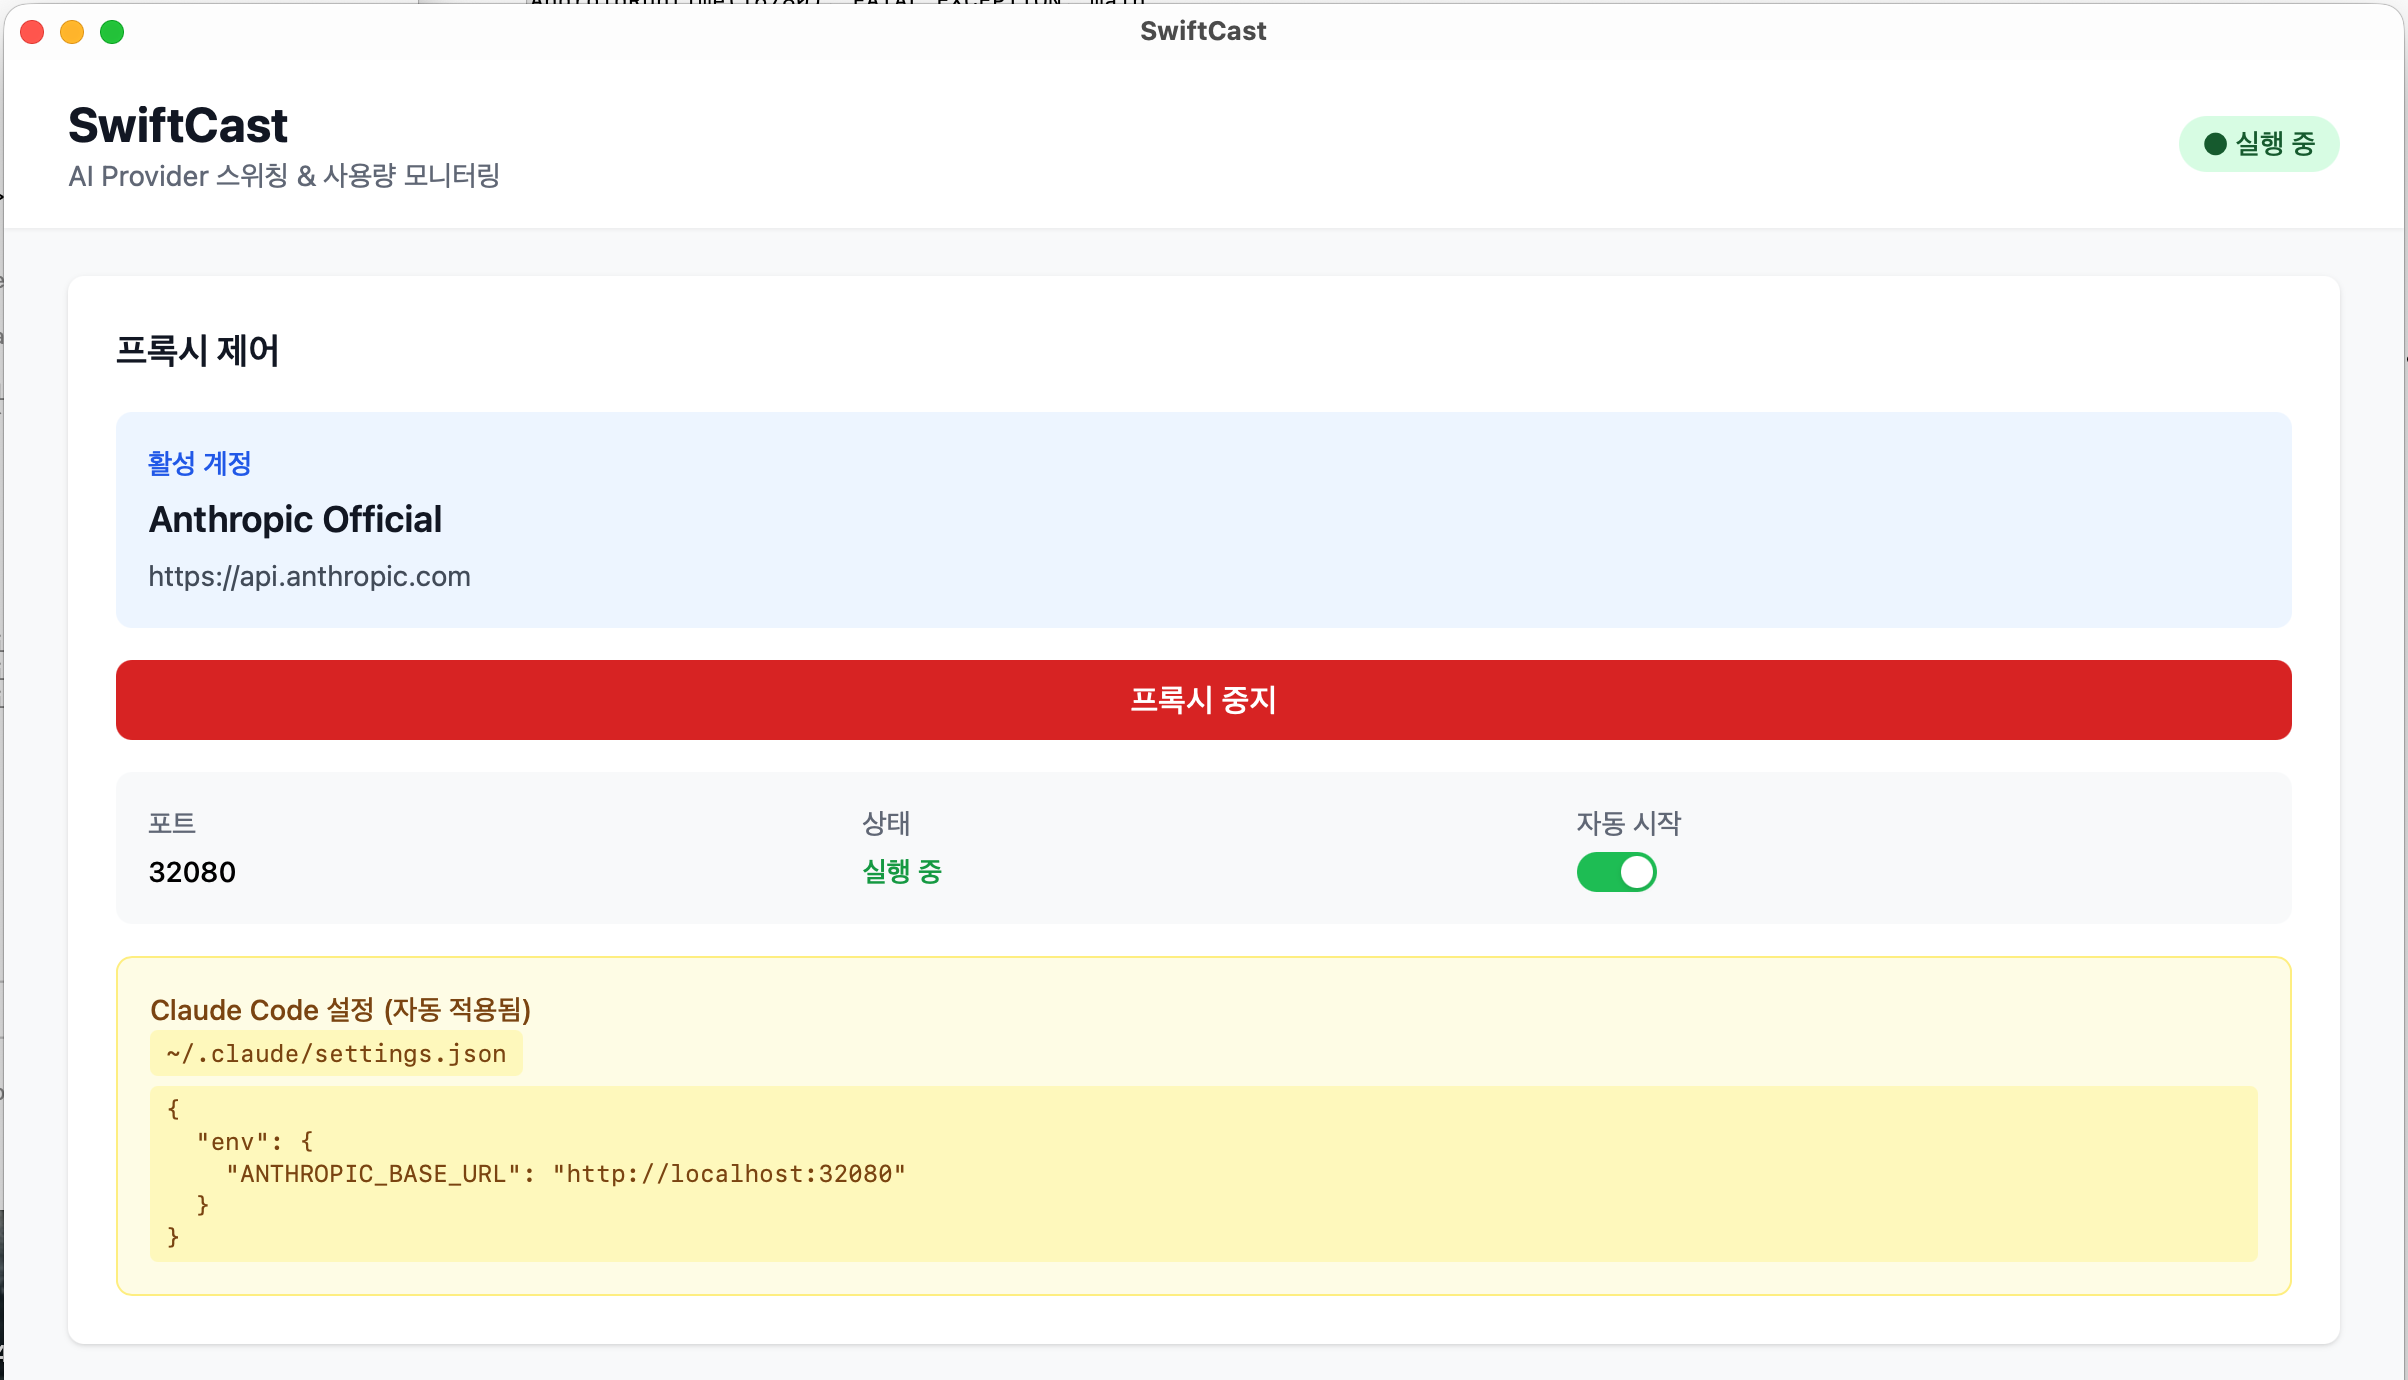
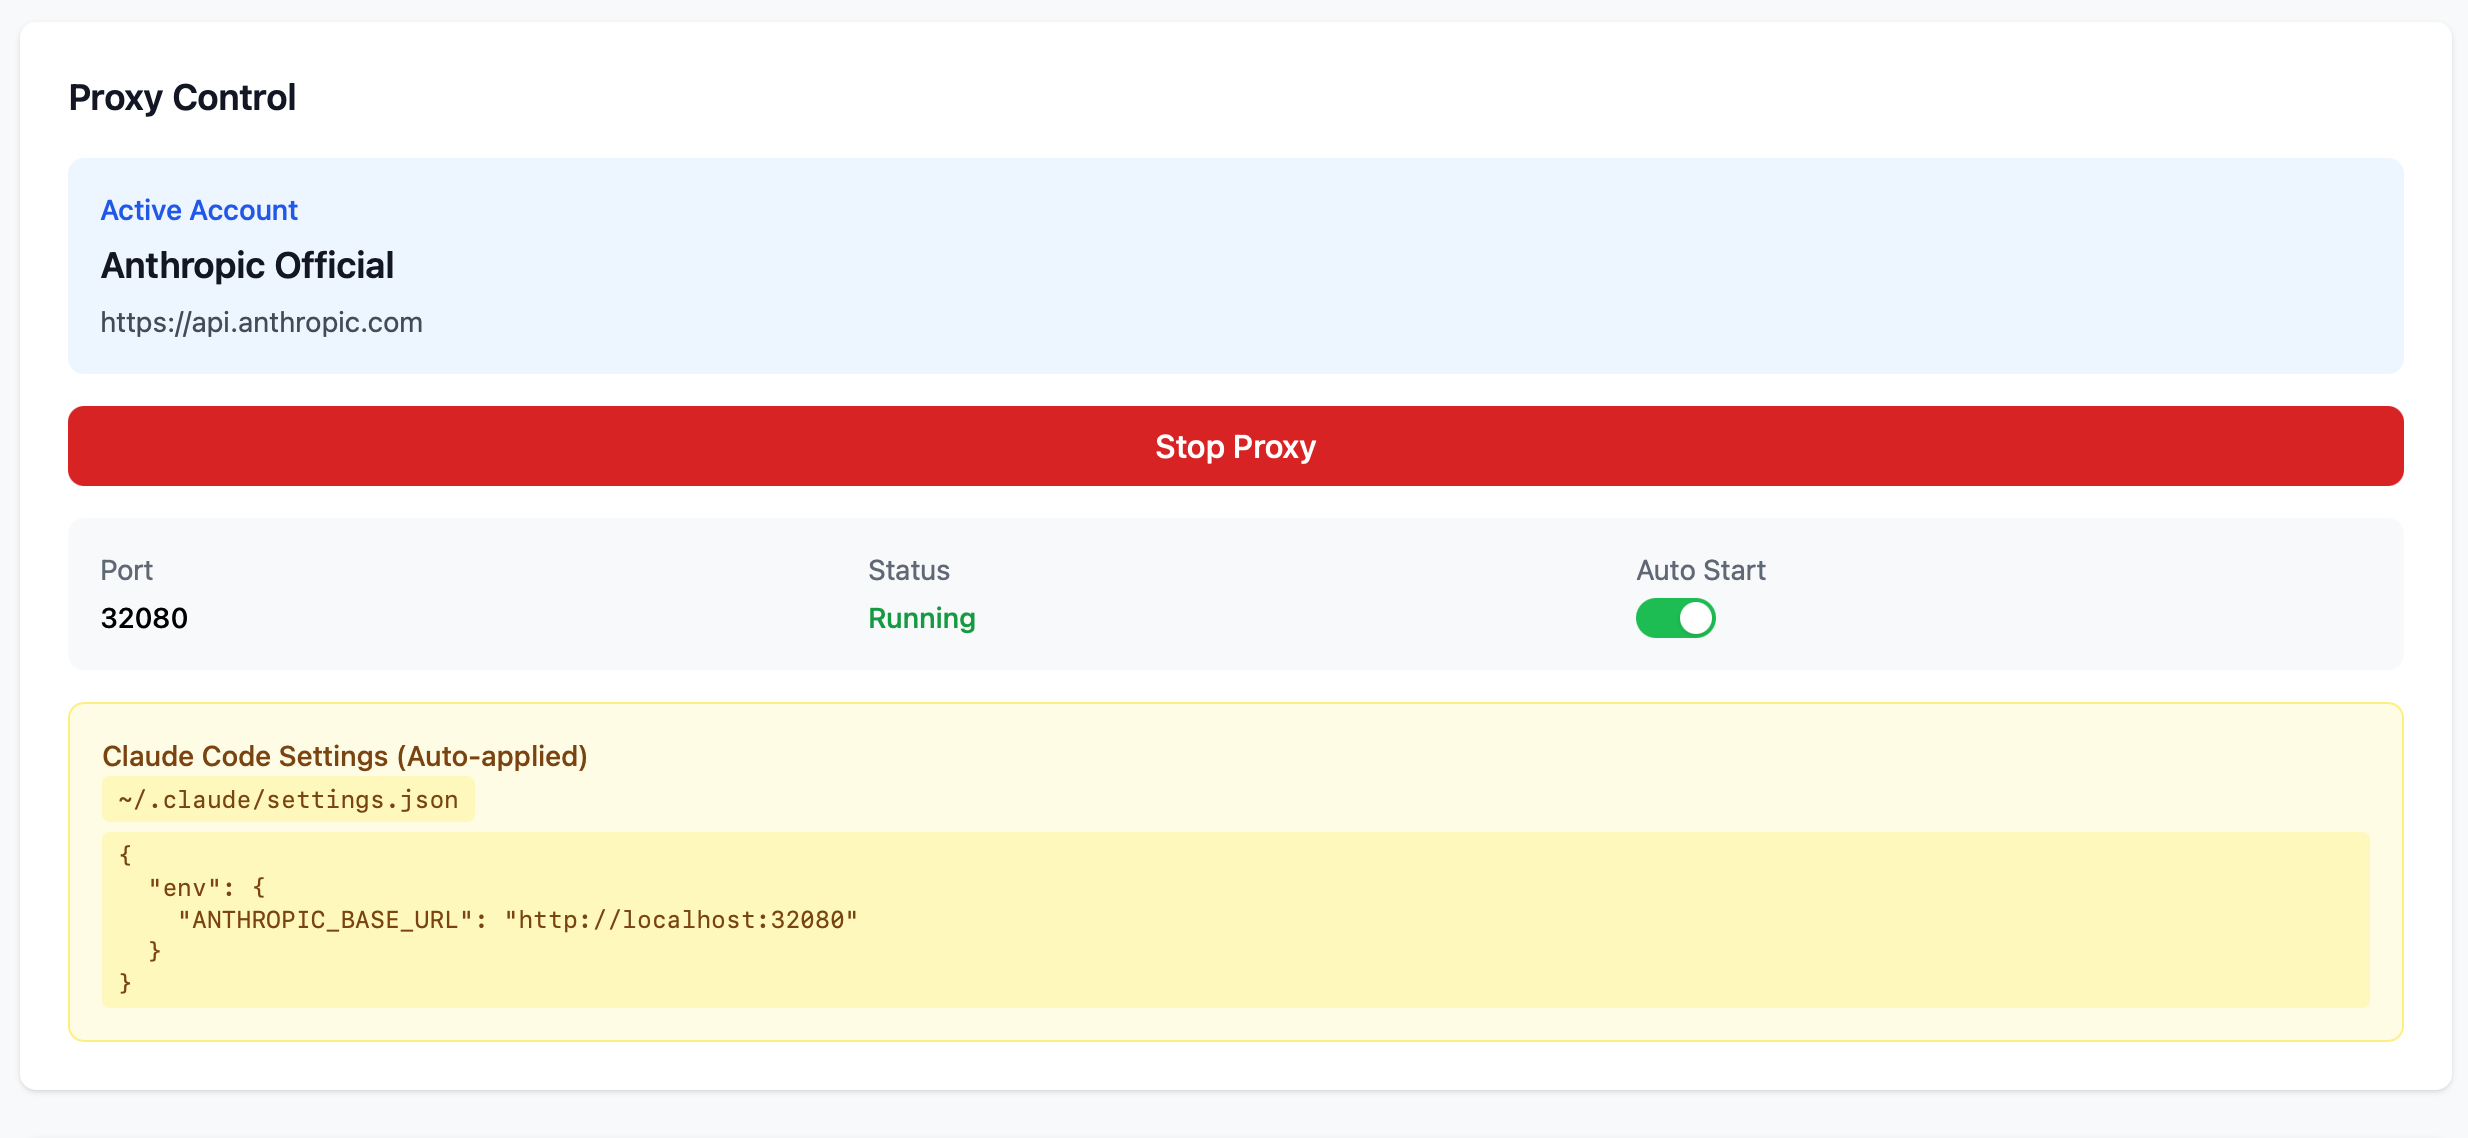
Add English screenshots and comprehensive user guide
- Add new English screenshots (00-overview through 05-settings)
- Add comprehensive user guide (docs/GUIDE.md)
- Update README with new screenshot paths

Changed region(s): [[0.0, 0.0, 1.0, 1.0], [0.4672, 0.0, 0.5295, 0.0308], [0.0, 0.0, 0.0623, 0.0308]]

diff --git a/docs/GUIDE.md b/docs/GUIDE.md
@@ -1,0 +1,300 @@
+# SwiftCast User Guide
+
+A comprehensive guide to using SwiftCast for AI provider switching and usage monitoring.
+
+## Table of Contents
+
+1. [Getting Started](#getting-started)
+2. [Dashboard](#dashboard)
+3. [Account Management](#account-management)
+4. [Session Management](#session-management)
+5. [Usage Monitoring](#usage-monitoring)
+6. [Settings](#settings)
+7. [Troubleshooting](#troubleshooting)
+
+---
+
+## Getting Started
+
+### Installation
+
+#### macOS
+1. Download `SwiftCast_x.x.x_aarch64.dmg` from [Releases](https://github.com/devload/swiftcast/releases)
+2. Open the DMG file
+3. Drag SwiftCast.app to your Applications folder
+4. Launch SwiftCast
+
+#### Windows
+1. Download `SwiftCast_x.x.x_x64-setup.exe` from [Releases](https://github.com/devload/swiftcast/releases)
+2. Run the installer
+3. Follow the installation wizard
+4. Launch SwiftCast from Start Menu
+
+### First Launch
+
+When you first launch SwiftCast:
+1. The proxy server starts automatically on port 32080
+2. Claude Code's `settings.json` is configured automatically
+3. You're ready to add your first account!
+
+---
+
+## Dashboard
+
+![Dashboard](01-dashboard.png)
+
+The Dashboard is your control center for the proxy server.
+
+### Proxy Control
+
+- **Active Account**: Shows the currently active AI provider account
+- **Stop/Start Proxy**: Toggle the proxy server on/off
+- **Port**: The local port number (default: 32080)
+- **Status**: Shows "Running" (green) or "Stopped" (red)
+- **Auto Start**: Toggle automatic proxy start on app launch
+
+### Claude Code Settings
+
+The yellow box shows the current Claude Code configuration:
+- File path: `~/.claude/settings.json`
+- Configuration preview showing `ANTHROPIC_BASE_URL`
+
+---
+
+## Account Management
+
+![Account Management](02-accounts.png)
+
+Manage your AI provider accounts here.
+
+### Auto Scan (macOS only)
+
+Click **Auto Scan** to automatically import Claude credentials from macOS Keychain:
+- Finds existing Claude OAuth tokens
+- Creates "Anthropic Official" account automatically
+- No manual API key entry needed!
+
+### Adding an Account Manually
+
+1. Click **+ Add Account**
+2. Fill in the form:
+   - **Account Name**: A friendly name (e.g., "My GLM Account")
+   - **Base URL**: Select the provider:
+     - Anthropic (Claude): `https://api.anthropic.com`
+     - GLM (Z.AI): `https://api.z.ai/api/anthropic`
+   - **API Key**: Your API key for the selected provider
+3. Click **Add**
+
+### Managing Accounts
+
+Each account card shows:
+- Account name and base URL
+- **Active** badge (blue) for the current account
+- **Activate** button to switch to this account
+- **Delete** button to remove the account
+
+### Switching Providers
+
+1. Click **Activate** on the desired account
+2. The proxy automatically routes to the new provider
+3. Your next Claude Code request will use the new provider
+
+---
+
+## Session Management
+
+![Session Management](03-sessions.png)
+
+Manage multiple Claude Code sessions with different configurations.
+
+### What is a Session?
+
+Each Claude Code instance creates a unique session (identified by a trace ID). SwiftCast tracks these sessions and allows you to:
+- Assign different vendors to different sessions
+- Override models per session
+- Monitor usage per session
+
+### Session Card
+
+Each session displays:
+- **Session ID**: First 8 characters of the trace ID
+- **Time**: How long ago the session was active
+- **Last Message**: The most recent user message (helps identify the session)
+- **Vendor**: Dropdown to select the AI provider account
+- **Model**: Dropdown to override the model (or keep original)
+- **Stats**: Request count and token usage
+
+### Changing Session Configuration
+
+1. Find the session you want to modify
+2. Select a different **Vendor** from the dropdown
+3. Optionally select a **Model** override
+4. Changes apply immediately to the next request
+
+### Use Case: Different Models for Different Tasks
+
+- Session A (complex refactoring): Anthropic + Claude Opus 4
+- Session B (simple edits): Anthropic + Claude Haiku
+- Session C (alternative provider): GLM + GLM-4
+
+---
+
+## Usage Monitoring
+
+![Usage Monitoring](04-usage.png)
+
+Track your API usage across all sessions and providers.
+
+### Overview Tab
+
+Displays aggregate statistics:
+- **Requests**: Total number of API calls
+- **Input Tokens**: Tokens sent to the API
+- **Output Tokens**: Tokens received from the API
+- **Total Tokens**: Combined usage
+
+### By Model Tab
+
+Breaks down usage by AI model:
+- claude-sonnet-4-20250514
+- claude-opus-4-20250514
+- claude-3-5-haiku-20241022
+- etc.
+
+### Daily Tab
+
+Shows usage trends over the past 7 days:
+- Daily request counts
+- Daily token consumption
+- Helps identify usage patterns
+
+### By Session Tab
+
+Usage breakdown per Claude Code session:
+- Useful for project-based tracking
+- Compare usage across different tasks
+
+### Recent Logs Tab
+
+Individual request log with:
+- Timestamp
+- Model used
+- Input/output tokens
+- Session ID
+
+---
+
+## Settings
+
+![Settings](05-settings.png)
+
+Configure SwiftCast behavior.
+
+### Language
+
+Select your preferred language:
+- English
+- Korean (한국어)
+- Japanese (日本語)
+- Chinese (中文)
+
+### Proxy Port
+
+Change the local proxy port (default: 32080):
+1. Click **Change**
+2. Enter new port number
+3. Restart Claude Code to use the new port
+
+### Auto Start
+
+Toggle automatic proxy start when SwiftCast launches.
+
+### Claude Code Settings File
+
+Shows the path to the Claude Code configuration file:
+- macOS: `~/.claude/settings.json`
+- Windows: `%USERPROFILE%\.claude\settings.json`
+
+This file is automatically managed by SwiftCast.
+
+### Data Management
+
+**Clear Usage Logs**: Delete all usage history and statistics.
+
+---
+
+## Troubleshooting
+
+### Claude Code not connecting
+
+1. Check that the proxy is running (green "Running" status)
+2. Verify the port number matches
+3. Restart Claude Code after changing settings
+
+### "No active account" error
+
+1. Go to Account Management
+2. Click **Activate** on an account
+3. Or add a new account if none exist
+
+### Auto Scan not finding credentials
+
+Auto Scan only works on macOS and requires:
+- Previous Claude Code authentication
+- Credentials stored in macOS Keychain
+
+If not found, add accounts manually with your API key.
+
+### High token usage
+
+1. Check Usage Monitoring > By Session
+2. Identify which session is consuming tokens
+3. Consider using a lighter model for simple tasks
+
+### Session not appearing
+
+Sessions only appear after:
+- At least one request through the proxy
+- Activity within the last 24 hours
+
+---
+
+## Tips & Best Practices
+
+### Cost Optimization
+
+1. Use **Session Management** to assign cheaper models to simple tasks
+2. Monitor **Daily** usage to track spending trends
+3. Use GLM as a fallback when Claude limits are reached
+
+### Multi-Provider Setup
+
+1. Register both Anthropic and GLM accounts
+2. Keep one as primary, one as backup
+3. Switch instantly when hitting rate limits
+
+### Privacy
+
+- API keys are stored locally in encrypted storage
+- No data is sent to external servers (except your chosen AI provider)
+- All traffic goes through your local machine
+
+---
+
+## Keyboard Shortcuts
+
+| Action | macOS | Windows |
+|--------|-------|---------|
+| Show/Hide Window | Click tray icon | Click tray icon |
+| Quit App | Tray > Quit | Tray > Quit |
+
+---
+
+## Getting Help
+
+- **GitHub Issues**: [Report bugs or request features](https://github.com/devload/swiftcast/issues)
+- **Releases**: [Download latest version](https://github.com/devload/swiftcast/releases)
+
+---
+
+*SwiftCast is open source under the MIT License.*

diff --git a/README.md b/README.md
@@ -2,7 +2,7 @@
 
 **A desktop app for seamlessly switching AI providers and monitoring usage for Claude Code**
 
-![Dashboard](docs/01-dashboard.png)
+![Overview](docs/00-overview.png)
 
 ## Key Features
 
@@ -65,7 +65,7 @@ Build output:
 
 ### 3. Usage Monitoring
 
-![Usage](docs/03-usage.png)
+![Usage](docs/04-usage.png)
 
 **Overview Tab**:
 - Request Count: Number of Claude API calls
@@ -80,6 +80,8 @@ Build output:
 
 ### 4. Session Management
 
+![Sessions](docs/03-sessions.png)
+
 - Run multiple Claude Code instances simultaneously
 - Each session can use a different vendor (Anthropic/GLM) and model
 - View last message for easy session identification
@@ -87,7 +89,7 @@ Build output:
 
 ### 5. Settings
 
-![Settings](docs/04-settings.png)
+![Settings](docs/05-settings.png)
 
 - **Proxy Port**: Local proxy port for Claude Code connection (default: 32080)
 - **Auto Start**: Automatically start proxy when app launches
